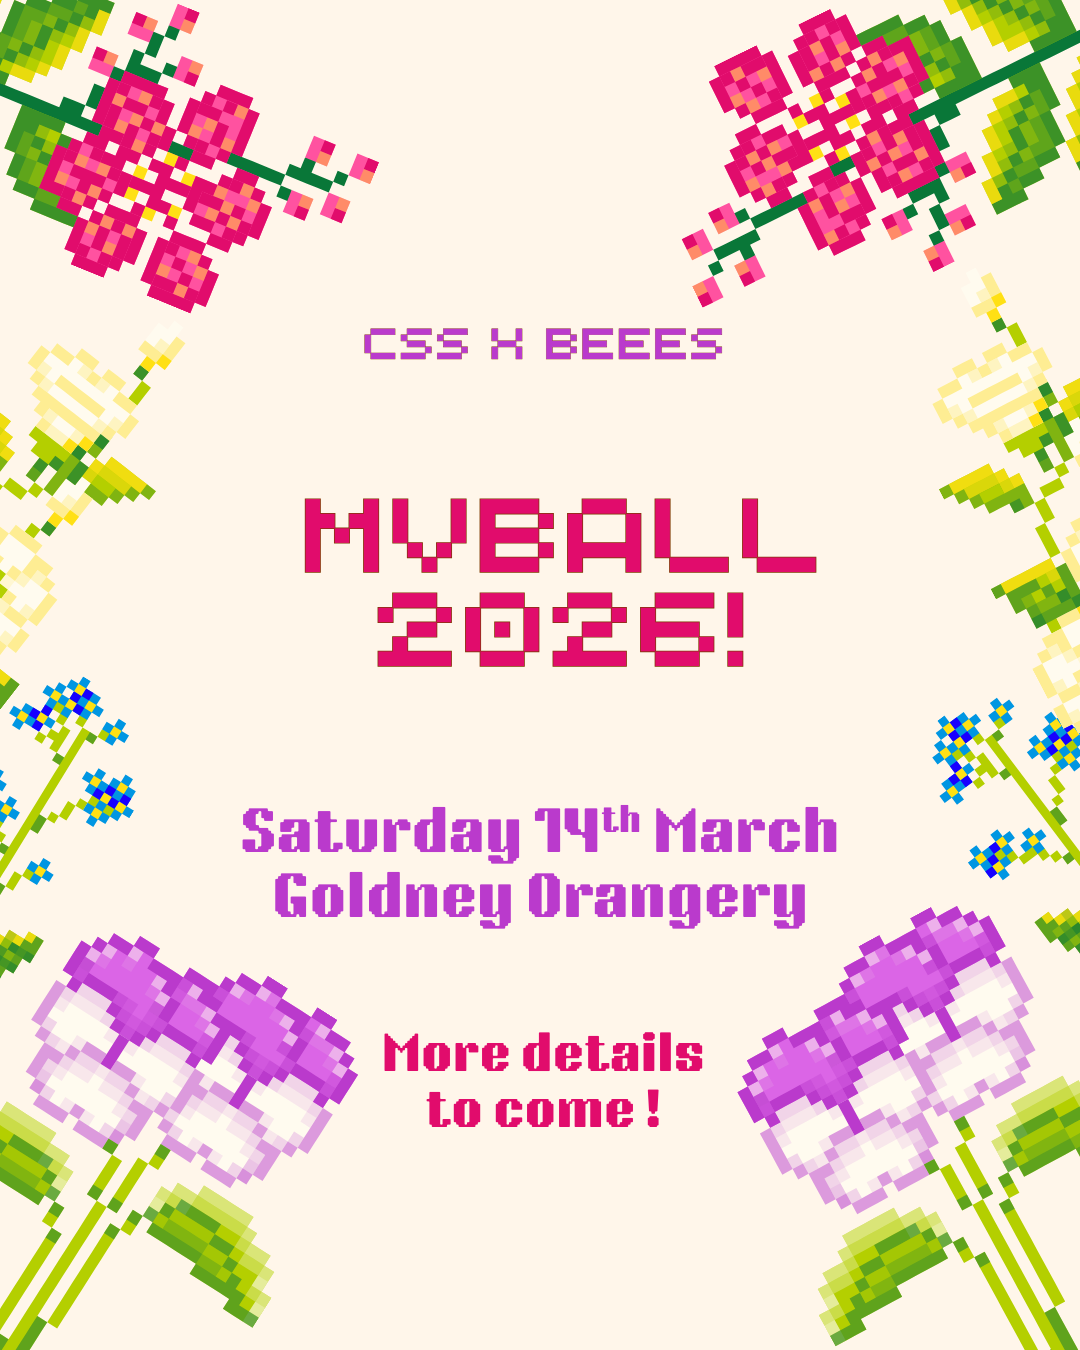
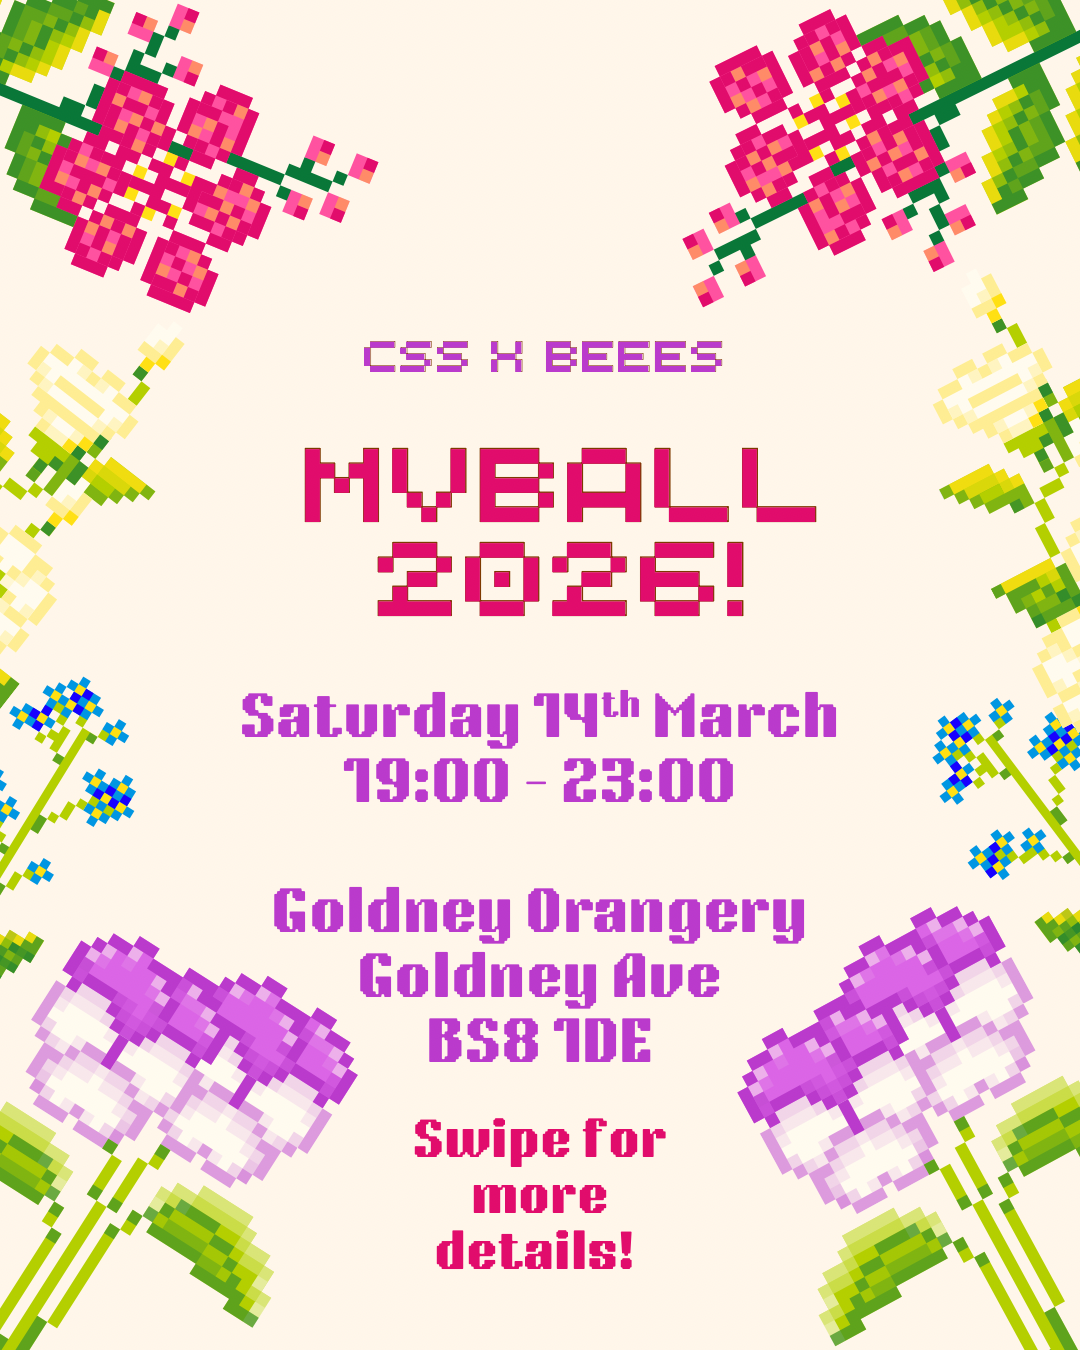
update mvball

diff --git a/_events/2026-03-14-mvball.md b/_events/2026-03-14-mvball.md
@@ -3,9 +3,10 @@ layout: event
 title: MVBall
 published: true
 cancelled: false
-date: 2026-03-14 17:00:00 +0000
+date: 2026-03-14 19:00:00 +0000
 date_end: 2026-03-14 23:00:00 +0000
 banner: /assets/images/contrib/events/2026/mvball.png
+ticket_link: https://www.bristolsu.org.uk/groups/beees-bristol-electrical-electronic-engineering-society-921a/events/mvball-2026-beees-x-css
 location: Goldney Orangery
 category:
   - Social
@@ -13,4 +14,30 @@ cohost:
   - company: BEEES
 ---
 
-Save the Date! Our Annual MVBall will be happening on Saturday 14th March🥂 More details & ticket links to come🫦
+CSS X BEEES MVBall 2026!
+Saturday 14th March
+19:00 - 23:00
+Goldney Orangery
+Goldney Ave
+BS8 1DE
+
+First Release: £42
+Second Release: £45
+Final Release: £49
+Dress Code: Black Tie
+
+# What’s included?
+
+- 2 course meal
+- Welcome drink on arrival
+- Afters at Brass Pig!
+
+# Menu
+
+## Main Course
+
+Red wine braised beef, roast roots, greens
+
+## Dessert
+
+Chocolate ale cake, salted caramel, cinder toffee
